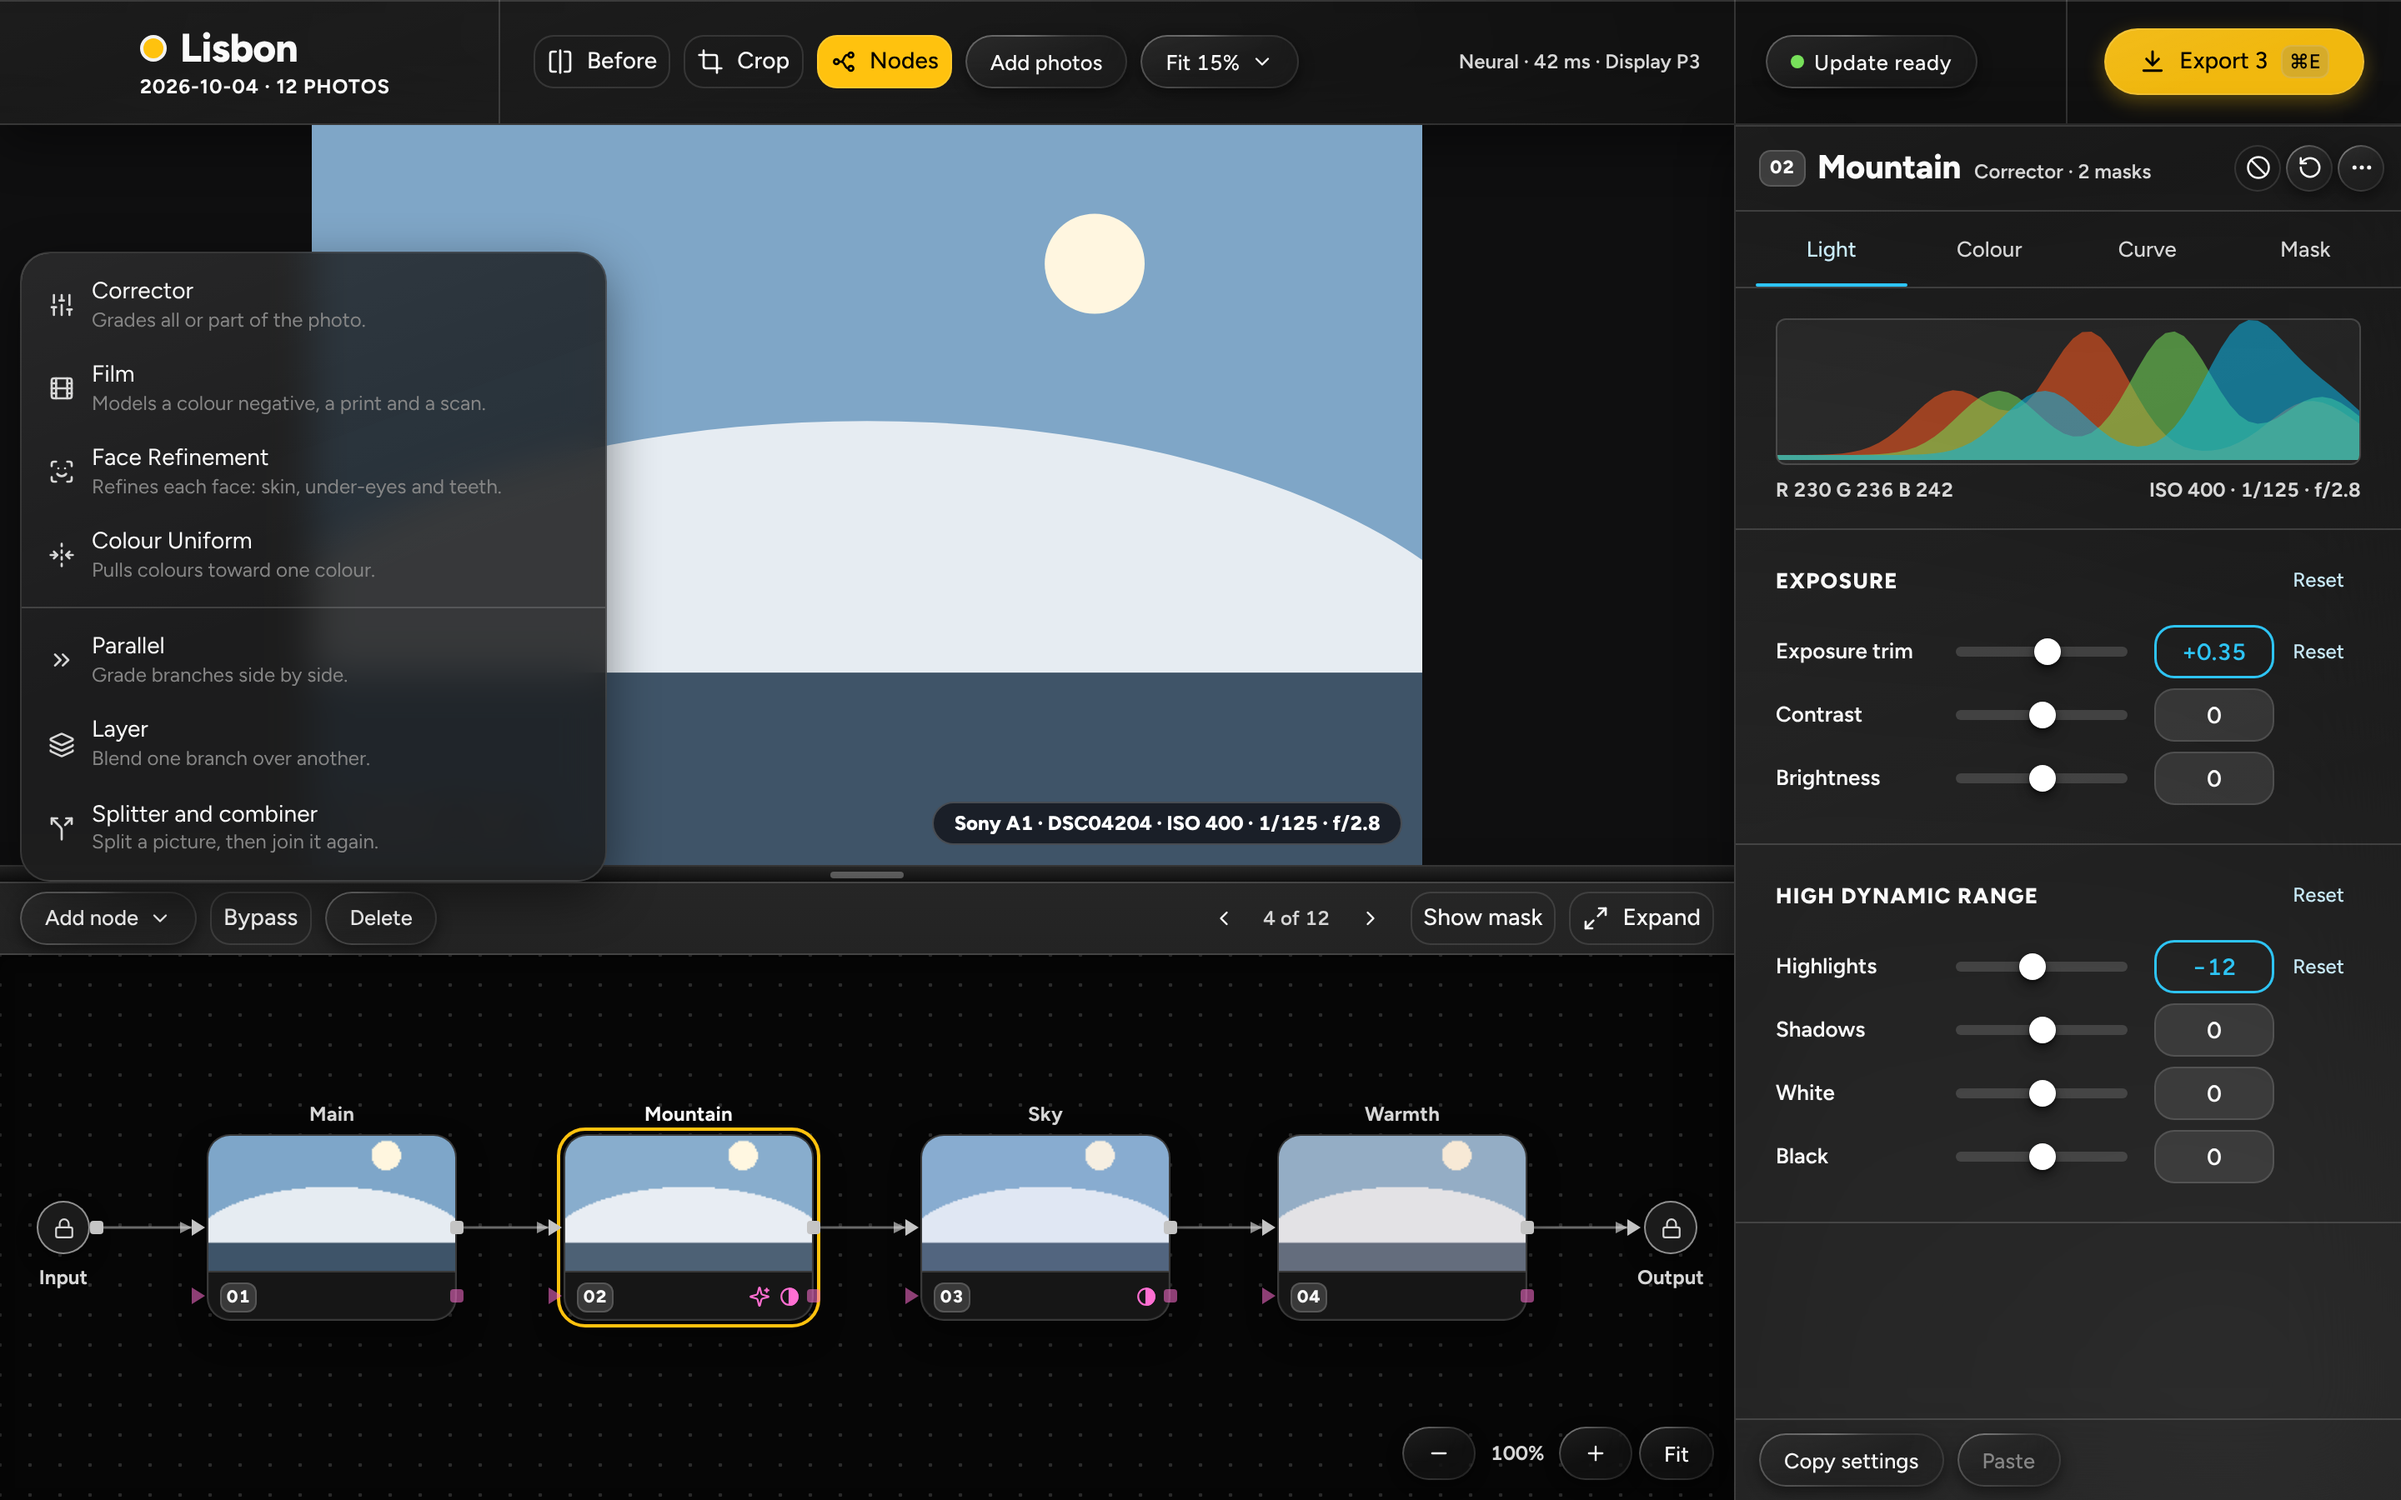
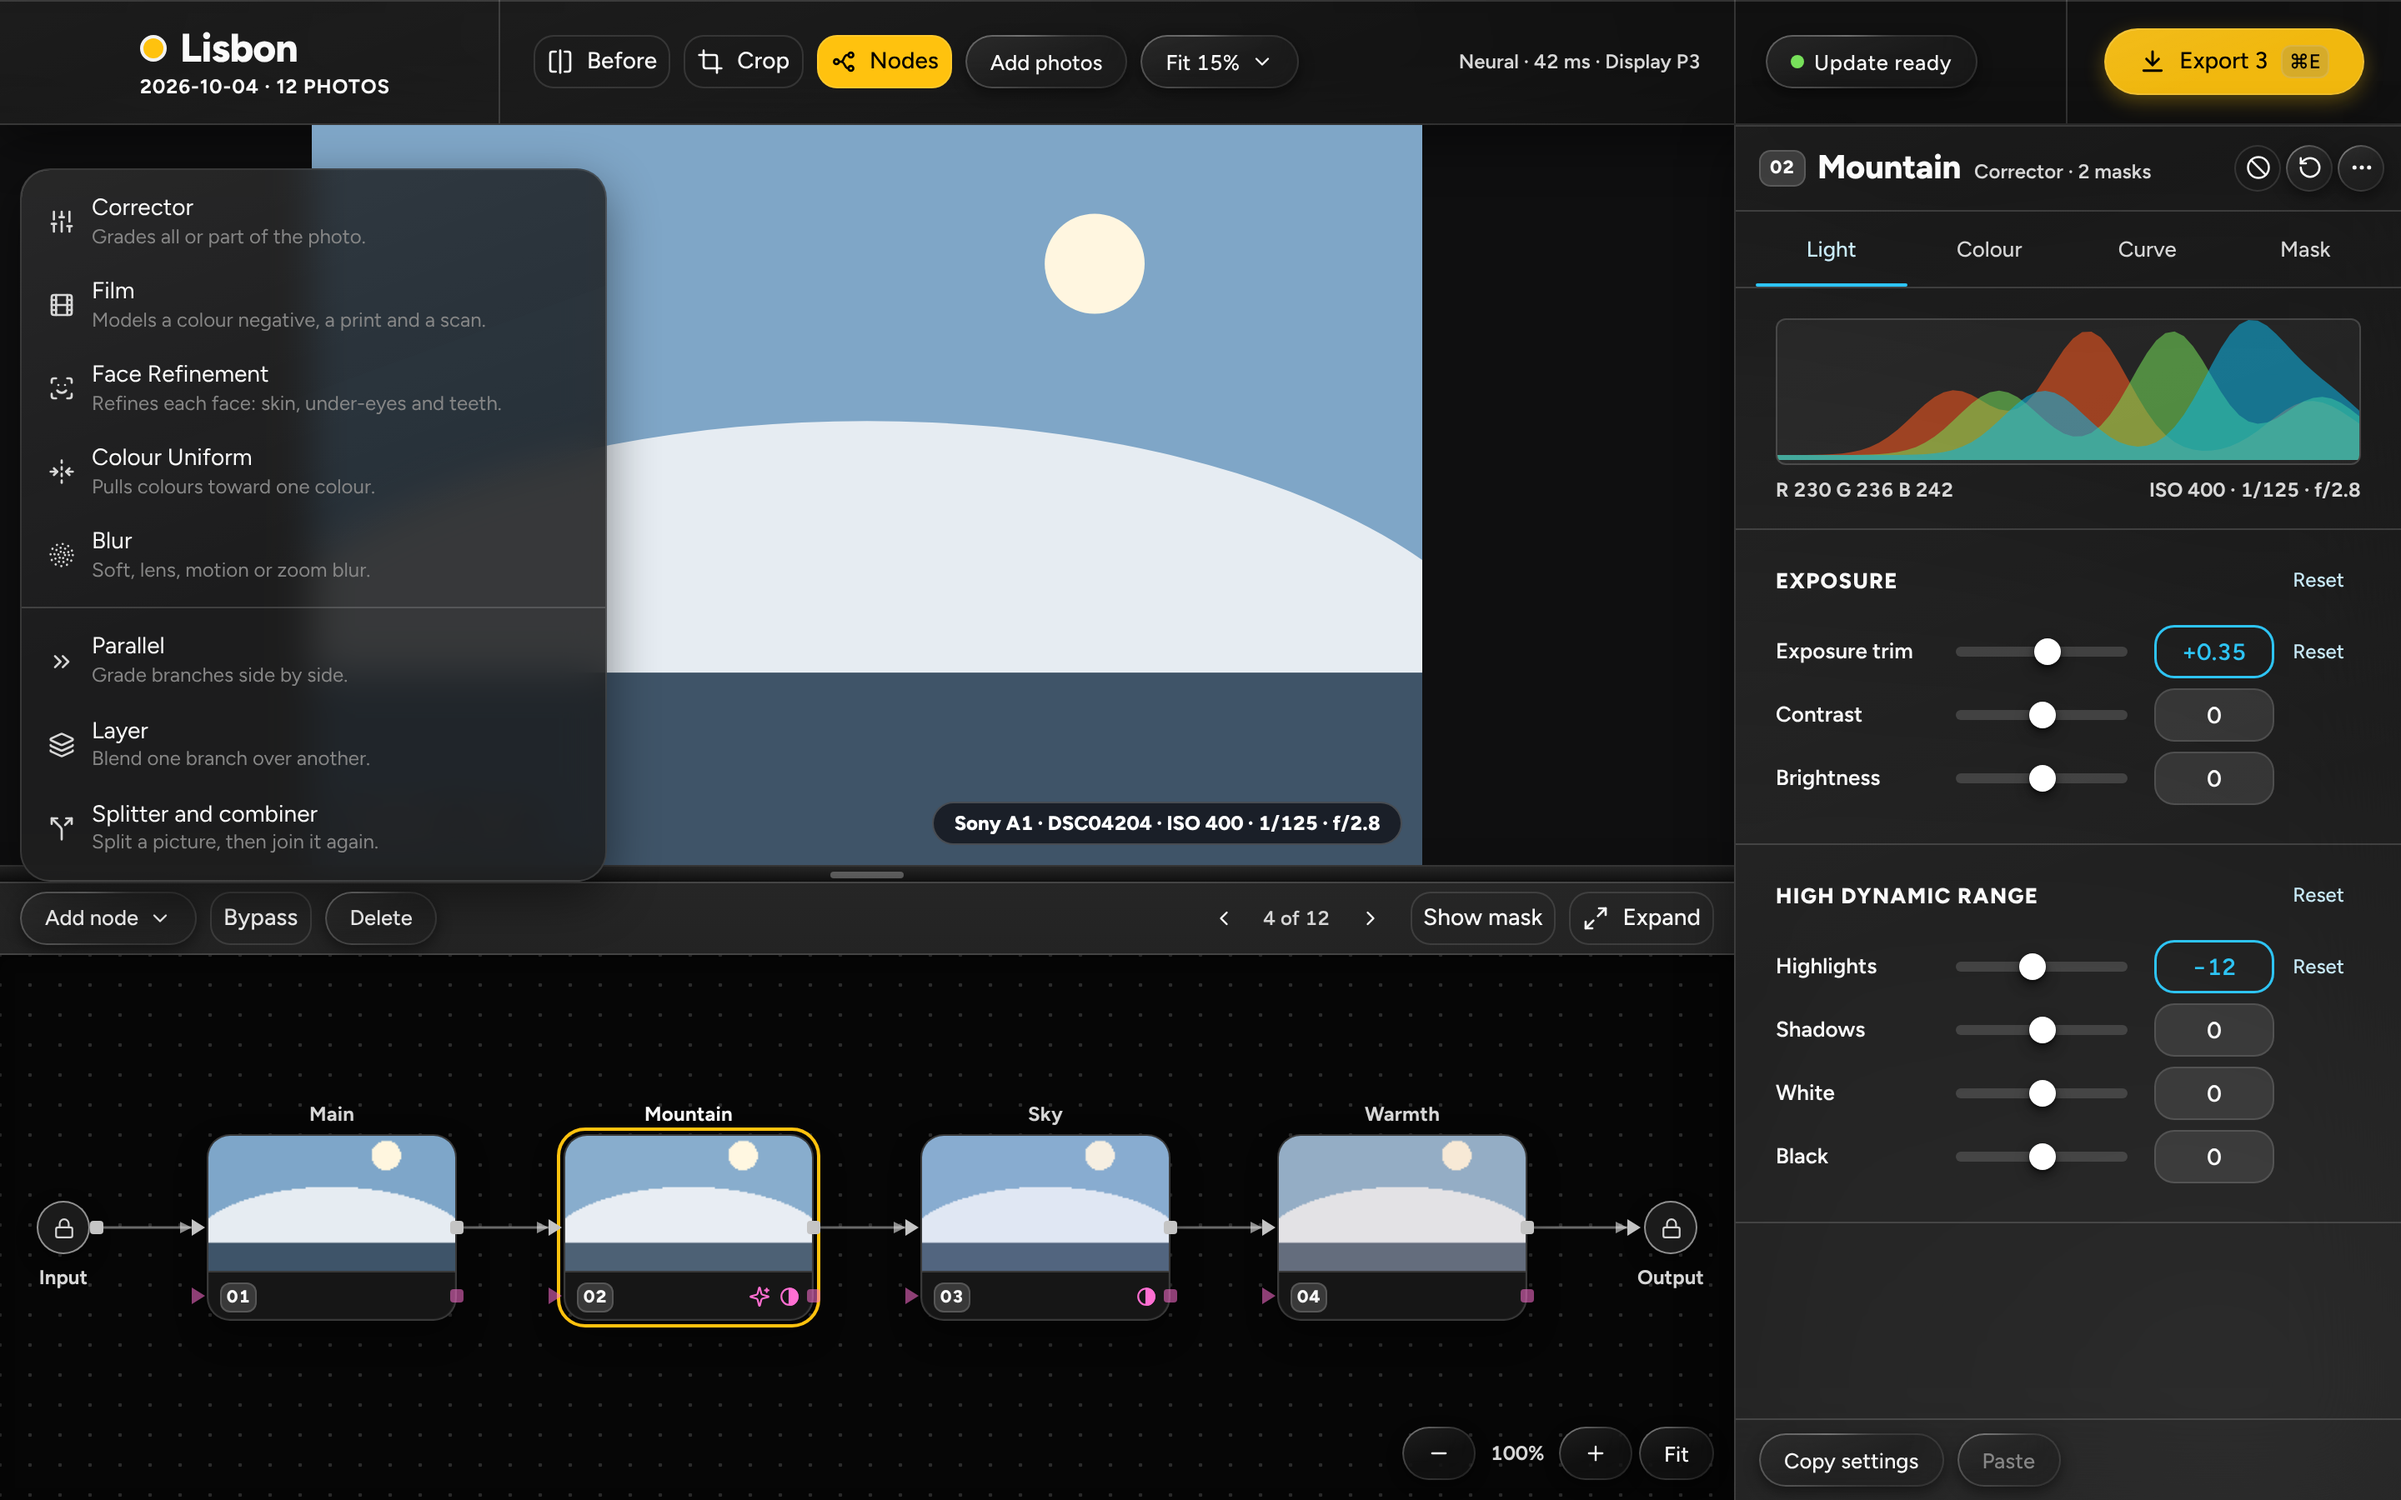
BL-15: the Blur screenshots, approved by the owner (2026-11-19, "ok")
Six new references (the panel of each type, Zoom's Pick centre, the Add node menu with
Blur), their spec e2e/blur-shots.spec.ts, and the three Add node references re-taken for
the menu's new item. Local renders; photos-mixers-add-node.png has a known timing flake
that BL-15b fixes.

Claude-Session: https://claude.ai/code/session_015yVsquBXWFc8zJt2CLktQS

diff --git a/e2e/blur-shots.spec.ts b/e2e/blur-shots.spec.ts
@@ -1,0 +1,44 @@
+import { expect, test } from "@playwright/test";
+import { compareScreen } from "./helpers/compare";
+import { blurView } from "./helpers/states";
+
+// The reference pictures of the Blur node (`design/screenshots-c2/photos-blur-*.png`, BL-15), the states of `design/blur/states.jpg`: the Blur
+// tab of each type, the Zoom centre handle on the photo, Zoom with Pick centre on, and the Add node menu with Blur.
+// The owner looks at the pictures before they are committed (docs/15, BL-15); until then the pictures and this file are not in the repository.
+
+test.describe("Blur", () => {
+  test("Soft (photos-blur-soft.png)", async ({ page }) => {
+    await blurView(page);
+    await compareScreen(page, "photos-blur-soft");
+  });
+
+  test("Lens, six blades, with a mask (photos-blur-lens.png)", async ({ page }) => {
+    await blurView(page, { type: "lens", masked: true, more: { lens: { radius: 30, blades: 6, rotation_deg: 15, highlights: 40 } } });
+    await compareScreen(page, "photos-blur-lens");
+  });
+
+  test("Motion (photos-blur-motion.png)", async ({ page }) => {
+    await blurView(page, { type: "motion", more: { motion: { length: 30, angle_deg: 20 } } });
+    await compareScreen(page, "photos-blur-motion");
+  });
+
+  test("Zoom with its centre handle on the photo (photos-blur-zoom.png)", async ({ page }) => {
+    await blurView(page, { type: "zoom", more: { zoom: { amount: 40, center: [0.35, 0.4] } } });
+    await expect(page.getByRole("button", { name: /^Zoom centre/ })).toBeVisible();
+    await compareScreen(page, "photos-blur-zoom");
+  });
+
+  test("Zoom with Pick centre on (photos-blur-zoom-pick.png)", async ({ page }) => {
+    await blurView(page, { type: "zoom", picking: true });
+    await expect(page.locator("[data-zoom-catch]")).toBeVisible();
+    await compareScreen(page, "photos-blur-zoom-pick", { pointer: { x: 520, y: 330 } });
+  });
+
+  test("the Add node menu with Blur (photos-blur-add-node.png)", async ({ page }) => {
+    await blurView(page);
+    await page.getByRole("button", { name: "Add node" }).click();
+    await expect(page.getByRole("menu", { name: "Add node" }).getByRole("menuitem", { name: /^Blur/ })).toBeVisible();
+    await page.waitForTimeout(500);
+    await compareScreen(page, "photos-blur-add-node");
+  });
+});
